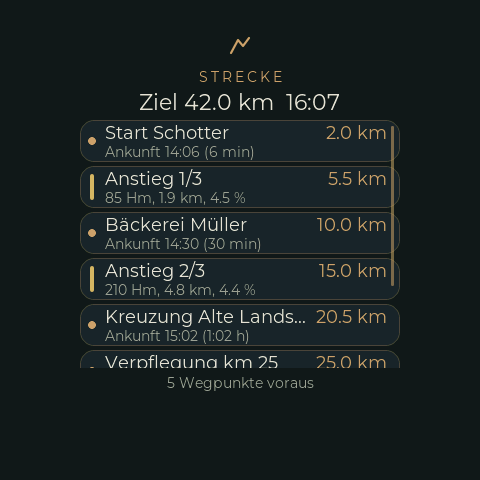
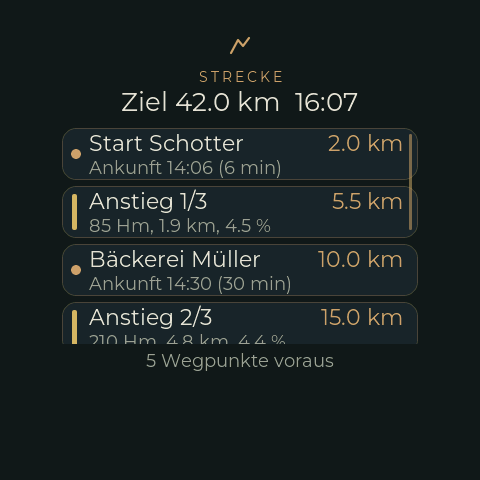
Streckenübersicht: größere Schrift und breitere Liste für die Fahrt
Namen und Entfernung 22 pt, zweite Zeile 18 pt, Kopfzeile 26 pt, Fußzeile 18 pt;
Liste 356 px breit, Zeilen 52 px hoch (drei Zeilen und ein Teil der vierten).
Am Gerät als lesbar bestätigt zu klein vorher (Nutzer).

Changed region(s): [[0.125, 0.1875, 0.875, 0.8125]]

diff --git a/src/ui/RimRidgeRouteCustFunc.cpp b/src/ui/RimRidgeRouteCustFunc.cpp
@@ -27,8 +27,8 @@ const uint32_t COLOR_MUTED = 0x9BA097;
 const uint32_t BAND_COLOR[] = {0x6C90B0, 0x6FA98C, 0xD7B463, 0xCE8A4C, 0xE8392A};
 const uint32_t BAND_PCT[] = {1, 4, 7, 10};				// Climb::Config::gradeBandPct, as shipped
 
-const lv_coord_t ROW_W = 320, ROW_H = 42, ROW_PITCH = 46;	// inside rrroute_list (320 x 224)
-const lv_coord_t DIST_W = 104;							// the right-hand figure of a row
+const lv_coord_t ROW_W = 356, ROW_H = 52, ROW_PITCH = 58;	// inside rrroute_list (356 x 216): three rows and most of a fourth
+const lv_coord_t DIST_W = 140;							// the right-hand figure of a row
 const uint8_t MAX_ROWS = RouteOv::MAX_VIEW_ROWS;
 
 struct RowWidgets {
@@ -97,7 +97,7 @@ bool formatArrival(char* out, size_t size, uint32_t timeS) {
 // dot the last line that fits ("Kreuzung Alte..."), but a row has one line. Cuts on a UTF-8 boundary.
 // out holds OVERVIEW_NAME_MAX + 4 byte.
 void fitText(char* out, const char* text, lv_coord_t maxW) {
-	const lv_font_t* font = &ui_font_montserrat18;
+	const lv_font_t* font = &ui_font_montserrat22;
 	size_t len = strlen(text);
 	if (len > OVERVIEW_NAME_MAX) len = OVERVIEW_NAME_MAX;
 	memcpy(out, text, len);
@@ -140,27 +140,27 @@ void makeRow(uint8_t i) {
 
 	w.name = lv_label_create(w.box);
 	lv_label_set_long_mode(w.name, LV_LABEL_LONG_CLIP);		// the text is cut by fitText(); CLIP keeps it on one line
-	lv_obj_set_height(w.name, 21);
-	lv_obj_set_style_text_font(w.name, &ui_font_montserrat18, LV_PART_MAIN | LV_STATE_DEFAULT);
+	lv_obj_set_height(w.name, 24);
+	lv_obj_set_style_text_font(w.name, &ui_font_montserrat22, LV_PART_MAIN | LV_STATE_DEFAULT);
 	lv_obj_set_style_text_color(w.name, lv_color_hex(COLOR_PARCHMENT), LV_PART_MAIN | LV_STATE_DEFAULT);
-	lv_obj_align(w.name, LV_ALIGN_TOP_LEFT, 24, 1);
+	lv_obj_align(w.name, LV_ALIGN_TOP_LEFT, 26, 2);
 
 	w.dist = lv_label_create(w.box);
 	lv_obj_set_width(w.dist, DIST_W);
 	lv_label_set_long_mode(w.dist, LV_LABEL_LONG_CLIP);
 	lv_obj_set_style_text_align(w.dist, LV_TEXT_ALIGN_RIGHT, LV_PART_MAIN | LV_STATE_DEFAULT);
-	lv_obj_set_style_text_font(w.dist, &ui_font_montserrat18, LV_PART_MAIN | LV_STATE_DEFAULT);
+	lv_obj_set_style_text_font(w.dist, &ui_font_montserrat22, LV_PART_MAIN | LV_STATE_DEFAULT);
 	lv_obj_set_style_text_color(w.dist, lv_color_hex(COLOR_BRASS), LV_PART_MAIN | LV_STATE_DEFAULT);
-	lv_obj_align(w.dist, LV_ALIGN_TOP_RIGHT, -12, 1);
-	lv_obj_set_height(w.dist, 21);
+	lv_obj_align(w.dist, LV_ALIGN_TOP_RIGHT, -14, 2);
+	lv_obj_set_height(w.dist, 24);
 
 	w.info = lv_label_create(w.box);
-	lv_obj_set_width(w.info, ROW_W - 24 - 12);
+	lv_obj_set_width(w.info, ROW_W - 26 - 14);
 	lv_label_set_long_mode(w.info, LV_LABEL_LONG_CLIP);
-	lv_obj_set_height(w.info, 17);
-	lv_obj_set_style_text_font(w.info, &ui_font_montserrat14, LV_PART_MAIN | LV_STATE_DEFAULT);
+	lv_obj_set_height(w.info, 21);
+	lv_obj_set_style_text_font(w.info, &ui_font_montserrat18, LV_PART_MAIN | LV_STATE_DEFAULT);
 	lv_obj_set_style_text_color(w.info, lv_color_hex(COLOR_MUTED), LV_PART_MAIN | LV_STATE_DEFAULT);
-	lv_obj_align(w.info, LV_ALIGN_TOP_LEFT, 24, 22);
+	lv_obj_align(w.info, LV_ALIGN_TOP_LEFT, 26, 28);
 }
 
 void fillRow(uint8_t i, const RouteOv::Row& r) {
@@ -191,20 +191,20 @@ void fillRow(uint8_t i, const RouteOv::Row& r) {
 	}
 	// A dot for a waypoint, a bar for a climb (in the colour of its gradient): told apart by shape, not only by colour
 	if (r.kind == RouteOv::KIND_CLIMB) {
-		lv_obj_set_size(w.stripe, 4, ROW_H - 16);
+		lv_obj_set_size(w.stripe, 5, ROW_H - 16);
 		lv_obj_set_style_radius(w.stripe, 2, LV_PART_MAIN | LV_STATE_DEFAULT);
 		lv_obj_align(w.stripe, LV_ALIGN_LEFT_MID, 9, 0);
 	} else {
-		lv_obj_set_size(w.stripe, 8, 8);
+		lv_obj_set_size(w.stripe, 10, 10);
 		lv_obj_set_style_radius(w.stripe, LV_RADIUS_CIRCLE, LV_PART_MAIN | LV_STATE_DEFAULT);
-		lv_obj_align(w.stripe, LV_ALIGN_LEFT_MID, 7, 0);
+		lv_obj_align(w.stripe, LV_ALIGN_LEFT_MID, 8, 0);
 	}
 	lv_obj_set_style_bg_color(w.stripe, lv_color_hex(stripe), LV_PART_MAIN | LV_STATE_DEFAULT);
 	setText(w.dist, dist);
 	setText(w.info, info);
 	// The name gets what the figure on the right leaves
-	const lv_coord_t distW = lv_txt_get_width(dist, strlen(dist), &ui_font_montserrat18, 0, LV_TEXT_FLAG_NONE);
-	const lv_coord_t nameW = ROW_W - 24 - 12 - distW - 8;
+	const lv_coord_t distW = lv_txt_get_width(dist, strlen(dist), &ui_font_montserrat22, 0, LV_TEXT_FLAG_NONE);
+	const lv_coord_t nameW = ROW_W - 26 - 14 - distW - 8;
 	lv_obj_set_width(w.name, nameW);
 	fitText(fitted, name, nameW);
 	setText(w.name, fitted);
@@ -258,9 +258,9 @@ void update() {
 	if (view.waypointsLeft == 0 && !cut) {
 		setHidden(objects.rrroute_foot, true);
 	} else {
-		if (view.waypointsLeft == 255) snprintf(text, sizeof(text), "255+ Wegpunkte voraus%s", cut ? ", Liste gekürzt" : "");
-		else if (view.waypointsLeft == 0) snprintf(text, sizeof(text), "Liste gekürzt");
-		else snprintf(text, sizeof(text), "%u Wegpunkt%s voraus%s", view.waypointsLeft, view.waypointsLeft == 1 ? "" : "e", cut ? ", Liste gekürzt" : "");
+		if (view.waypointsLeft == 255) snprintf(text, sizeof(text), "255+ Wegpunkte voraus%s", cut ? ", gekürzt" : "");
+		else if (view.waypointsLeft == 0) snprintf(text, sizeof(text), "gekürzt");
+		else snprintf(text, sizeof(text), "%u Wegpunkt%s voraus%s", view.waypointsLeft, view.waypointsLeft == 1 ? "" : "e", cut ? ", gekürzt" : "");
 		setText(objects.rrroute_foot, text);
 		setHidden(objects.rrroute_foot, false);
 	}

diff --git a/src/ui_eez/screens.c b/src/ui_eez/screens.c
@@ -4531,13 +4531,13 @@ void create_screen_rim_ridge_route() {
             // rrroute_dest
             lv_obj_t *obj = lv_label_create(parent_obj);
             objects.rrroute_dest = obj;
-            lv_obj_set_pos(obj, 100, 90);
+            lv_obj_set_pos(obj, 100, 88);
             lv_obj_set_size(obj, 280, LV_SIZE_CONTENT);
             lv_label_set_long_mode(obj, LV_LABEL_LONG_DOT);
             lv_obj_add_flag(obj, LV_OBJ_FLAG_CLICKABLE);
             lv_obj_clear_flag(obj, LV_OBJ_FLAG_SCROLLABLE);
             lv_obj_set_style_text_color(obj, lv_color_hex(theme_colors[active_theme_index][21]), LV_PART_MAIN | LV_STATE_DEFAULT);
-            lv_obj_set_style_text_font(obj, &ui_font_montserrat22, LV_PART_MAIN | LV_STATE_DEFAULT);
+            lv_obj_set_style_text_font(obj, &ui_font_montserrat26, LV_PART_MAIN | LV_STATE_DEFAULT);
             lv_obj_set_style_text_align(obj, LV_TEXT_ALIGN_CENTER, LV_PART_MAIN | LV_STATE_DEFAULT);
             lv_label_set_text(obj, "Ziel 36.0 km  15:42");
         }
@@ -4545,8 +4545,8 @@ void create_screen_rim_ridge_route() {
             // rrroute_list
             lv_obj_t *obj = lv_obj_create(parent_obj);
             objects.rrroute_list = obj;
-            lv_obj_set_pos(obj, 80, 120);
-            lv_obj_set_size(obj, 320, 248);
+            lv_obj_set_pos(obj, 62, 128);
+            lv_obj_set_size(obj, 356, 216);
             lv_obj_set_style_pad_left(obj, 0, LV_PART_MAIN | LV_STATE_DEFAULT);
             lv_obj_set_style_pad_top(obj, 0, LV_PART_MAIN | LV_STATE_DEFAULT);
             lv_obj_set_style_pad_right(obj, 0, LV_PART_MAIN | LV_STATE_DEFAULT);
@@ -4569,7 +4569,7 @@ void create_screen_rim_ridge_route() {
             lv_obj_set_size(obj, LV_SIZE_CONTENT, LV_SIZE_CONTENT);
             lv_obj_clear_flag(obj, LV_OBJ_FLAG_SCROLLABLE);
             lv_obj_set_style_text_color(obj, lv_color_hex(theme_colors[active_theme_index][22]), LV_PART_MAIN | LV_STATE_DEFAULT);
-            lv_obj_set_style_text_font(obj, &ui_font_montserrat22, LV_PART_MAIN | LV_STATE_DEFAULT);
+            lv_obj_set_style_text_font(obj, &ui_font_montserrat26, LV_PART_MAIN | LV_STATE_DEFAULT);
             lv_obj_set_style_align(obj, LV_ALIGN_CENTER, LV_PART_MAIN | LV_STATE_DEFAULT);
             lv_label_set_text(obj, "Keine Strecke");
         }
@@ -4577,11 +4577,11 @@ void create_screen_rim_ridge_route() {
             // rrroute_empty2
             lv_obj_t *obj = lv_label_create(parent_obj);
             objects.rrroute_empty2 = obj;
-            lv_obj_set_pos(obj, 0, 24);
+            lv_obj_set_pos(obj, 0, 26);
             lv_obj_set_size(obj, LV_SIZE_CONTENT, LV_SIZE_CONTENT);
             lv_obj_clear_flag(obj, LV_OBJ_FLAG_SCROLLABLE);
             lv_obj_set_style_text_color(obj, lv_color_hex(theme_colors[active_theme_index][22]), LV_PART_MAIN | LV_STATE_DEFAULT);
-            lv_obj_set_style_text_font(obj, &ui_font_montserrat14, LV_PART_MAIN | LV_STATE_DEFAULT);
+            lv_obj_set_style_text_font(obj, &ui_font_montserrat18, LV_PART_MAIN | LV_STATE_DEFAULT);
             lv_obj_set_style_align(obj, LV_ALIGN_CENTER, LV_PART_MAIN | LV_STATE_DEFAULT);
             lv_label_set_text(obj, "GPX-Route in TrailBridge");
         }
@@ -4589,12 +4589,12 @@ void create_screen_rim_ridge_route() {
             // rrroute_foot
             lv_obj_t *obj = lv_label_create(parent_obj);
             objects.rrroute_foot = obj;
-            lv_obj_set_pos(obj, 0, 374);
+            lv_obj_set_pos(obj, 0, 350);
             lv_obj_set_size(obj, LV_SIZE_CONTENT, LV_SIZE_CONTENT);
             lv_obj_add_flag(obj, LV_OBJ_FLAG_CLICKABLE);
             lv_obj_clear_flag(obj, LV_OBJ_FLAG_SCROLLABLE);
             lv_obj_set_style_text_color(obj, lv_color_hex(theme_colors[active_theme_index][22]), LV_PART_MAIN | LV_STATE_DEFAULT);
-            lv_obj_set_style_text_font(obj, &ui_font_montserrat14, LV_PART_MAIN | LV_STATE_DEFAULT);
+            lv_obj_set_style_text_font(obj, &ui_font_montserrat18, LV_PART_MAIN | LV_STATE_DEFAULT);
             lv_obj_set_style_align(obj, LV_ALIGN_TOP_MID, LV_PART_MAIN | LV_STATE_DEFAULT);
             lv_label_set_text(obj, "3 Wegpunkte, 7 Anstiege");
         }
